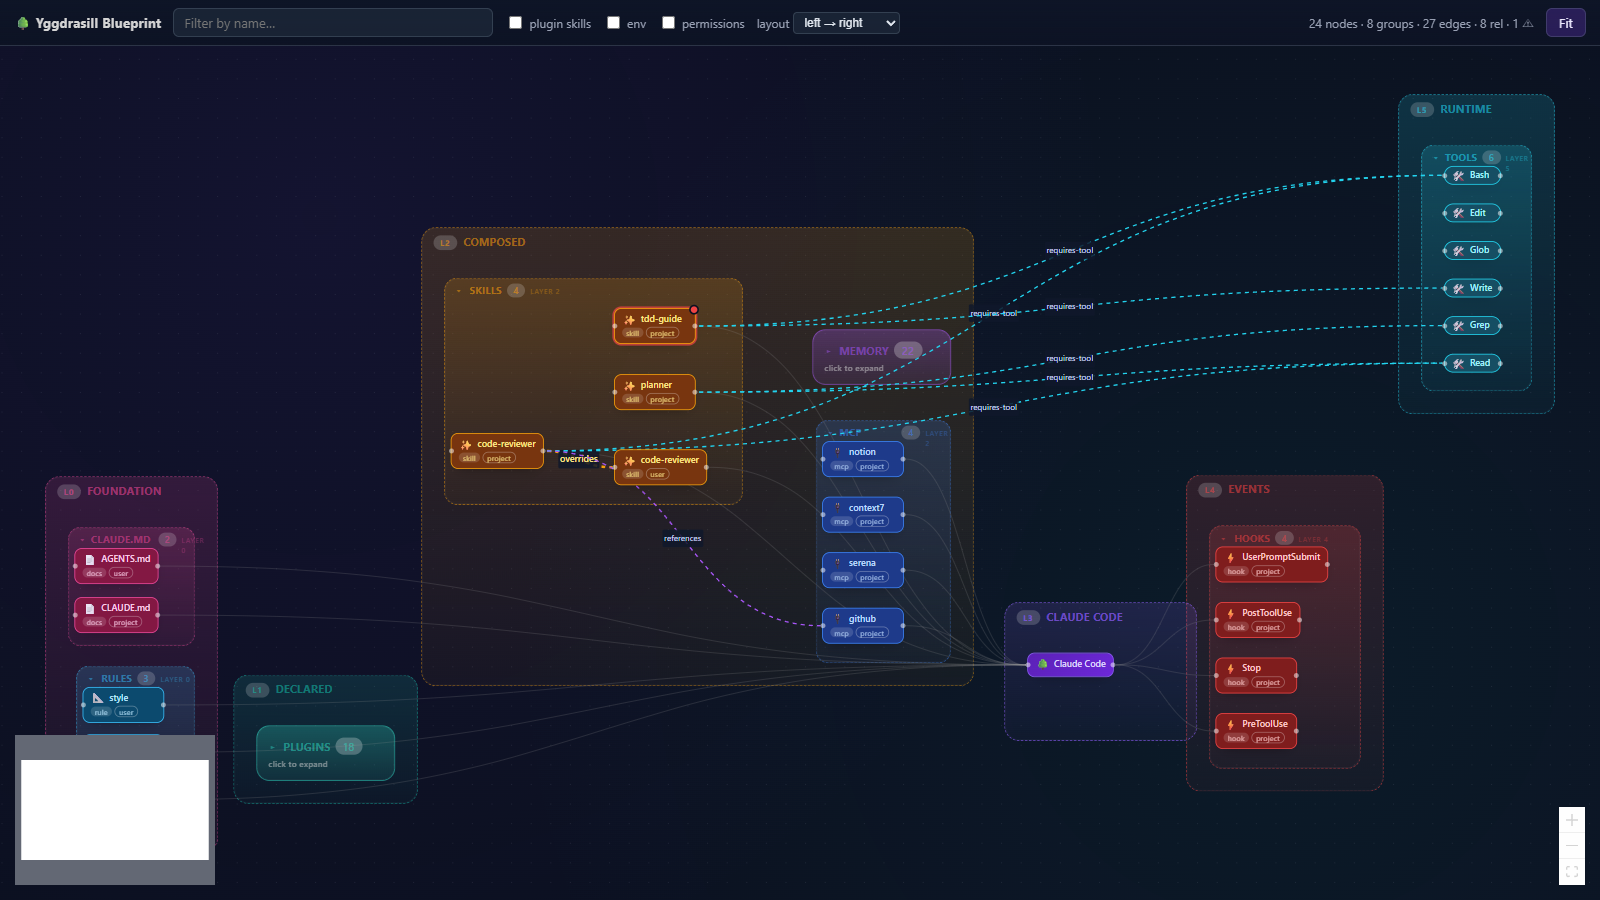
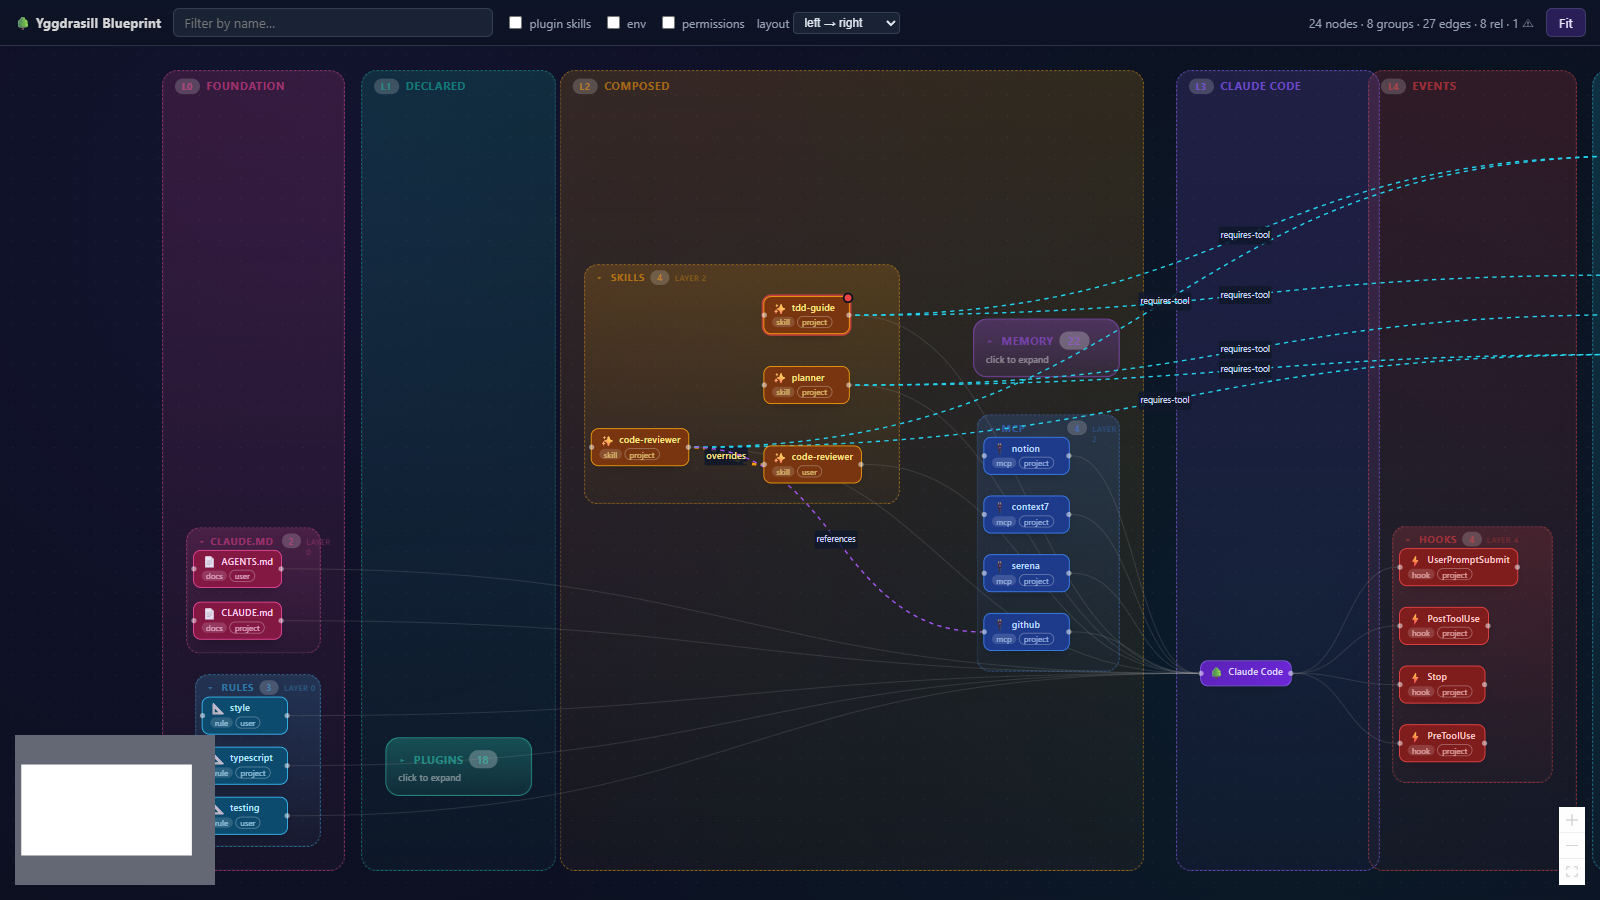
feat(blueprint): equalize layer-band heights along the flow-orthogonal axis
Before this change each band was sized exactly to its members'
bbox, so a sparse L0 Foundation shrank to 2 cards tall while a
dense L2 Composed ballooned. The pipeline read as a staircase.

Now deriveLayerBands computes a single global extent across all
non-parent nodes and uses it for the direction-orthogonal axis:

- RIGHT layout (loading left→right): every band gets the same
  top/bottom (globalMinY .. globalMaxY), only x-range varies.
- DOWN layout (loading top→bottom): every band gets the same
  left/right (globalMinX .. globalMaxX), only y-range varies.

The result is a consistent set of parallel stripes that tell the
loading-order story at a glance, regardless of how many entries
each layer holds.

Refreshed media/screenshots/blueprint-hero.png; still no doc
changes, no test changes (bands are a pure view-derivation).

diff --git a/media/blueprint/App.tsx b/media/blueprint/App.tsx
@@ -82,15 +82,41 @@ function deriveLayerBands(
   }
   const PAD = 28;
   const LABEL_SPACE = 34;
+  // Align every band along the direction-orthogonal axis so the whole pipeline
+  // reads as parallel stripes: in RIGHT mode all bands share the y-extent, in
+  // DOWN mode all bands share the x-extent.
+  const allBoxes: Array<{ x: number; y: number; w: number; h: number }> = [];
+  for (const boxes of byLayer.values()) allBoxes.push(...boxes);
+  if (allBoxes.length === 0) return [];
+  const globalMinX = Math.min(...allBoxes.map((b) => b.x));
+  const globalMaxX = Math.max(...allBoxes.map((b) => b.x + b.w));
+  const globalMinY = Math.min(...allBoxes.map((b) => b.y));
+  const globalMaxY = Math.max(...allBoxes.map((b) => b.y + b.h));
+
   const bands: Array<Node<LayerBandData>> = [];
   for (const [layer, boxes] of byLayer) {
     if (boxes.length === 0) continue;
     const meta = LAYER_LABELS[layer];
     if (!meta) continue;
-    const minX = Math.min(...boxes.map((b) => b.x)) - PAD;
-    const minY = Math.min(...boxes.map((b) => b.y)) - PAD - LABEL_SPACE;
-    const maxX = Math.max(...boxes.map((b) => b.x + b.w)) + PAD;
-    const maxY = Math.max(...boxes.map((b) => b.y + b.h)) + PAD;
+    const lminX = Math.min(...boxes.map((b) => b.x));
+    const lmaxX = Math.max(...boxes.map((b) => b.x + b.w));
+    const lminY = Math.min(...boxes.map((b) => b.y));
+    const lmaxY = Math.max(...boxes.map((b) => b.y + b.h));
+    let minX: number;
+    let maxX: number;
+    let minY: number;
+    let maxY: number;
+    if (direction === "RIGHT") {
+      minX = lminX - PAD;
+      maxX = lmaxX + PAD;
+      minY = globalMinY - PAD - LABEL_SPACE;
+      maxY = globalMaxY + PAD;
+    } else {
+      minX = globalMinX - PAD;
+      maxX = globalMaxX + PAD;
+      minY = lminY - PAD - LABEL_SPACE;
+      maxY = lmaxY + PAD;
+    }
     bands.push({
       id: `layerBand::${layer}`,
       type: "layerBand",
